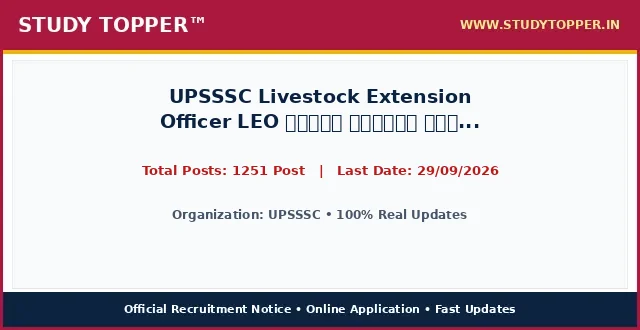
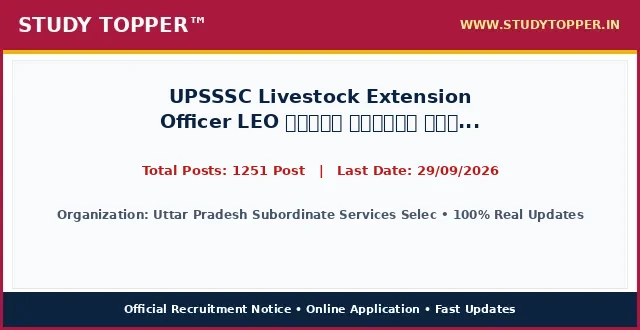
chore(lifecycle): daily auto-sort vacancies and update active dates

Changed region(s): [[0.0938, 0.6364, 0.9375, 0.6667]]

diff --git a/pages/upsssc-livestock-17-exam-2026.html b/pages/upsssc-livestock-17-exam-2026.html
@@ -987,12 +987,12 @@ ul.wp-block-latest-posts a:hover {
 <main class="site-main" id="main">
 <div class="gb-container gb-container-b39c368c">
 <h1 class="gb-headline gb-headline-e52a0102 gb-headline-text" style="font-size: 22px; font-weight: 700; color: #0000cd; text-align: left; margin: 8px 0 4px 0; line-height: 1.3; width: 100%; font-family: '-apple-system, BlinkMacSystemFont, 'Segoe UI', Roboto, 'Helvetica Neue', Arial, sans-serif', Times, serif, Hind, sans-serif;">UPSSSC Livestock Extension Officer LEO पशुधन प्रसार अधिकारी Main Examination 2026 Apply Online for 1251 Post</h1>
-<div class="gb-container gb-container-659bd175"><p style="color: #cd0808; font-weight: 700; font-size: 15px; margin: 2px 0 7px 0; text-align: left; font-family: '-apple-system, BlinkMacSystemFont, 'Segoe UI', Roboto, 'Helvetica Neue', Arial, sans-serif', Times, serif, Hind, sans-serif;">Post Date: August 22, 2026 11:54 AM</p></div>
-<p class="gb-headline gb-headline-550ae316 short_Details gb-headline-text" style="width: 100%; max-width: 100%; font-size: 16.8px; line-height: 1.55; color: #000000; text-align: justify; text-justify: inter-word; margin: 8px 0 14px 0; display: block; font-family: '-apple-system, BlinkMacSystemFont, 'Segoe UI', Roboto, 'Helvetica Neue', Arial, sans-serif', Times, serif, Hind, sans-serif;"><strong style="color: #0000cd;">UPSSSC</strong> has officially published the recruitment notice <strong style="color: #cd0808;">UPSSSC Livestock Extension Officer LEO पशुधन प्रसार अधिकारी Main Examination 2026 Apply Online for 1251 Post</strong> under notification number Official Advt 2026. Online applications are invited for 1251 Post across multiple departments and cadre positions. Interested candidates possessing the requisite educational qualifications and falling between 18 Years to 40 Years can complete their online registration before the application deadline of 29/09/2026. Applicants should read the eligibility criteria, category reservation rules, and exam scheme thoroughly before submitting applications.</p>
+<div class="gb-container gb-container-659bd175"><p style="color: #cd0808; font-weight: 700; font-size: 15px; margin: 2px 0 7px 0; text-align: left; font-family: '-apple-system, BlinkMacSystemFont, 'Segoe UI', Roboto, 'Helvetica Neue', Arial, sans-serif', Times, serif, Hind, sans-serif;">Post Date: August 22, 2026 01:06 PM</p></div>
+<p class="gb-headline gb-headline-550ae316 short_Details gb-headline-text" style="width: 100%; max-width: 100%; font-size: 16.8px; line-height: 1.55; color: #000000; text-align: justify; text-justify: inter-word; margin: 8px 0 14px 0; display: block; font-family: '-apple-system, BlinkMacSystemFont, 'Segoe UI', Roboto, 'Helvetica Neue', Arial, sans-serif', Times, serif, Hind, sans-serif;"><strong style="color: #0000cd;">Uttar Pradesh Subordinate Services Selection Commission (UPSSSC)</strong> has officially published the recruitment notice <strong style="color: #cd0808;">UPSSSC Livestock Extension Officer LEO पशुधन प्रसार अधिकारी Main Examination 2026 Apply Online for 1251 Post</strong> under notification number Official Notification 2026. Online applications are invited for 1251 Post across multiple departments and cadre positions. Interested candidates possessing the requisite educational qualifications and falling between 18 Years to 40 Years can complete their online registration before the application deadline of 29/09/2026. Applicants should read the eligibility criteria, category reservation rules, and exam scheme thoroughly before submitting applications.</p>
 <div class="gb-container gb-container-9849916c"><div class="social-buttons-compact" style="display: flex; justify-content: flex-start; align-items: center; gap: 10px; margin: 10px 0 16px 0; width: 100%;"><a class="social-btn-compact wa" href="https://whatsapp.com/channel/0029Va9xyz" rel="noopener" style="background-color: #00d084; color: #ffffff; padding: 10px 18px; border-radius: 4px; text-decoration: none; font-weight: bold; font-size: 15.5px; display: inline-flex; align-items: center; justify-content: center; height: auto;" target="_blank">WhatsApp</a><a class="social-btn-compact tg" href="https://t.me/studytopperofficial" rel="noopener" style="background-color: #0088cc; color: #ffffff; padding: 10px 18px; border-radius: 4px; text-decoration: none; font-weight: bold; font-size: 15.5px; display: inline-flex; align-items: center; justify-content: center; height: auto;" target="_blank">Telegram</a></div></div>
 <div class="gb-container gb-container-f58e6ca1" style="border: 2px solid #5b032f; border-radius: 4px; overflow: hidden; margin: 15px 0 20px 0; background-color: #ffffff; width: 100%; box-sizing: border-box;">
 <h2 class="gb-headline gb-headline-2ca5a791 gb-headline-text" style="font-size: 16px; font-weight: 700; text-align: center; color: #ef0303; line-height: 1.3; padding: 6px 4px; margin: 0; background: #ffffff; font-family: '-apple-system, BlinkMacSystemFont, 'Segoe UI', Roboto, 'Helvetica Neue', Arial, sans-serif', Times, serif, Hind, sans-serif;">UPSSSC Livestock Extension Officer LEO पशुधन प्रसार अधिकारी Main Examination 2026 Apply Online for 1251 Post &ndash; Latest Details &amp; Updates</h2>
-<h3 class="gb-headline gb-headline-7d5f86e8 gb-headline-text" style="font-size: 16px; font-weight: 600; text-align: center; color: #009703; line-height: 1.25; margin: 0; padding: 2px 4px 6px 4px; background: #ffffff; font-family: '-apple-system, BlinkMacSystemFont, 'Segoe UI', Roboto, 'Helvetica Neue', Arial, sans-serif', Times, serif, Hind, sans-serif;">UPSSSC : Details &amp; Summary</h3>
+<h3 class="gb-headline gb-headline-7d5f86e8 gb-headline-text" style="font-size: 16px; font-weight: 600; text-align: center; color: #009703; line-height: 1.25; margin: 0; padding: 2px 4px 6px 4px; background: #ffffff; font-family: '-apple-system, BlinkMacSystemFont, 'Segoe UI', Roboto, 'Helvetica Neue', Arial, sans-serif', Times, serif, Hind, sans-serif;">Uttar Pradesh Subordinate Services Selection Commission (UPSSSC) : Details &amp; Summary</h3>
 <p class="gb-headline gb-headline-79adf169 gb-headline-text" style="margin: 0 0 6px 0; font-family: '-apple-system, BlinkMacSystemFont, 'Segoe UI', Roboto, 'Helvetica Neue', Arial, sans-serif', Times, serif, Hind, sans-serif; text-align: center; font-size: 18px; font-weight: 700;"><a href="/" style="color: #0000ff; text-decoration: underline;">StudyTopper.in</a></p>
 
 <style id="st-post-boxes-responsive-css">
@@ -1025,7 +1025,7 @@ ul.wp-block-latest-posts a:hover {
     <div style="background-color: #5b032f; color: #ffffff; padding: 8px 10px; font-size: 20px; font-weight: 700; text-align: center; font-family: '-apple-system, BlinkMacSystemFont, 'Segoe UI', Roboto, 'Helvetica Neue', Arial, sans-serif', Times, serif, Hind, sans-serif;">Important Dates</div>
     <div style="padding: 12px 14px; background-color: #ffffff;">
       <ul style="padding-left: 20px; margin: 0; list-style-type: disc; text-align: left; font-size: 14pt; line-height: 1.6; font-family: '-apple-system, BlinkMacSystemFont, 'Segoe UI', Roboto, 'Helvetica Neue', Arial, sans-serif', Times, serif, Hind, sans-serif;">
-        <li><span style="font-size: 14pt;">Application Begin : <strong>09/09/2026</strong></span></li><li><span style="font-size: 14pt;">Last Date for Apply Online : <span style="color: #ff0000;"><strong>29/09/2026</strong></span></span></li><li><span style="font-size: 14pt;">Pay Exam Fee Last Date : <span style="color: #ff0000;"><strong>29/09/2026</strong></span></span></li><li><span style="font-size: 14pt;">Form Correction Last Date : <span style="color: #ff0000;"><strong>06/10/2026</strong></span></span></li><li><span style="font-size: 14pt;">UPSSSC Livestock Extension Officer Main Exam Date : <strong>As per Schedule</strong></span></li><li><span style="font-size: 14pt;">Admit Card Available : <strong>Before Exam</strong></span></li><li><span style="font-size: 14pt;">Candidate Read the Notification Before Apply the Recruitment Application Form in UPSSSC Livestock Extension Officer LEO Main Examination Advt. No.17 : <strong>Exam/2026 Recruitment 2026.</strong></span></li>
+        <li><span style="font-size: 14pt;">Application Begin : <strong>09/09/2026</strong></span></li><li><span style="font-size: 14pt;">Last Date for Apply Online : <span style="color: #ff0000;"><strong>29/09/2026</strong></span></span></li><li><span style="font-size: 14pt;">Pay Exam Fee Last Date : <span style="color: #ff0000;"><strong>29/09/2026</strong></span></span></li><li><span style="font-size: 14pt;">Form Correction Last Date : <span style="color: #ff0000;"><strong>06/10/2026</strong></span></span></li><li><span style="font-size: 14pt;">Exam City Available : <strong>Before Exam</strong></span></li><li><span style="font-size: 14pt;">Admit Card Available : <strong>Before Exam</strong></span></li>
       </ul>
     </div>
   </div>
@@ -1034,7 +1034,7 @@ ul.wp-block-latest-posts a:hover {
     <div style="background-color: #5b032f; color: #ffffff; padding: 8px 10px; font-size: 20px; font-weight: 700; text-align: center; font-family: '-apple-system, BlinkMacSystemFont, 'Segoe UI', Roboto, 'Helvetica Neue', Arial, sans-serif', Times, serif, Hind, sans-serif;">Application Fee</div>
     <div style="padding: 12px 14px; background-color: #ffffff;">
       <ul style="padding-left: 20px; margin: 0; list-style-type: disc; text-align: left; font-size: 14pt; line-height: 1.6; font-family: '-apple-system, BlinkMacSystemFont, 'Segoe UI', Roboto, 'Helvetica Neue', Arial, sans-serif', Times, serif, Hind, sans-serif;">
-        <li><span style="font-size: 14pt;">General (UR) / OBC / EWS : <strong>25/-</strong></span></li><li><span style="font-size: 14pt;">SC / ST : <strong>25/-</strong></span></li><li><span style="font-size: 14pt;">PH (Divyang) : <strong>25/-</strong></span></li>
+        <li><span style="font-size: 14pt;">General (UR) / OBC / EWS : <strong>25/-</strong></span></li><li><span style="font-size: 14pt;">SC / ST : <strong>25/-</strong></span></li><li><span style="font-size: 14pt;">PH (Divyang) : <strong>25/-</strong></span></li><li><span style="font-size: 14pt;">Payment Mode : <strong>Pay the Examination Fee Through UPI, Debit Card, Credit Card and Net Banking Mode Only.</strong></span></li>
       </ul>
       <div style="margin-top: 10px; font-size: 14pt; line-height: 1.5; color: #000000; border-top: 1px dashed #ccc; padding-top: 8px; font-family: '-apple-system, BlinkMacSystemFont, 'Segoe UI', Roboto, 'Helvetica Neue', Arial, sans-serif', Times, serif, Hind, sans-serif;">
         <strong>Mode of Payment / Access:</strong> Online via Net Banking, Debit Card, Credit Card, UPI or Free Candidate Portal.
@@ -1047,10 +1047,10 @@ ul.wp-block-latest-posts a:hover {
 <div class="st-grid-row" style="display: flex; flex-wrap: wrap; width: 100%; border-top: 2px solid #5b032f; margin: 0; padding: 0; box-sizing: border-box;">
   <!-- Left Col: Age Limits -->
   <div class="st-col-half st-col-border-right" style="box-sizing: border-box; vertical-align: top;">
-    <div style="background-color: #046132; color: #ffffff; padding: 8px 10px; font-size: 17px; font-weight: 700; text-align: center; font-family: '-apple-system, BlinkMacSystemFont, 'Segoe UI', Roboto, 'Helvetica Neue', Arial, sans-serif', Times, serif, Hind, sans-serif;">UPSSSC : Age Limits As On 01 August 2026</div>
+    <div style="background-color: #046132; color: #ffffff; padding: 8px 10px; font-size: 17px; font-weight: 700; text-align: center; font-family: '-apple-system, BlinkMacSystemFont, 'Segoe UI', Roboto, 'Helvetica Neue', Arial, sans-serif', Times, serif, Hind, sans-serif;">Uttar Pradesh Subordinate Services Selection Commission (UPSSSC) : Age Limits As On 01/07/2026</div>
     <div style="padding: 12px 14px; background-color: #ffffff;">
       <ul style="padding-left: 20px; margin: 0; list-style-type: disc; text-align: left; font-size: 14pt; line-height: 1.6; font-family: '-apple-system, BlinkMacSystemFont, 'Segoe UI', Roboto, 'Helvetica Neue', Arial, sans-serif', Times, serif, Hind, sans-serif;">
-        <li><span style="font-size: 14pt;">Minimum Age : <strong>21 Years</strong></span></li><li><span style="font-size: 14pt;">Maximum Age : <strong>40 Years</strong></span></li><li><span style="font-size: 14pt;">Age Relaxation Extra as per UPSSSC पशुधन प्रसार अधिकारी LEO Main Recruitment Rules Advt. No. 17 : <strong>Exam/2026.</strong></span></li>
+        <li><span style="font-size: 14pt;">Minimum Age : <strong>21 Years</strong></span></li><li><span style="font-size: 14pt;">Maximum Age : <strong>40 Years</strong></span></li><li><span style="font-size: 14pt;">Age Relaxation : <strong>Age Relaxation Extra as per UPSSSC पशुधन प्रसार अधिकारी LEO Main Recruitment Rules Advt. No. 17-Exam/2026.</strong></span></li>
       </ul>
     </div>
   </div>
@@ -1070,7 +1070,19 @@ ul.wp-block-latest-posts a:hover {
 <div class="gb-container gb-container-ec1f6e4c">
 <h2 class="gb-headline gb-headline-c7683bda gb-headline-text" style="font-size: 24px; font-weight: 800; text-align: center; color: #ef0303; line-height: 1.35; margin: 20px 0 12px 0; padding: 6px 4px; font-family: '-apple-system, BlinkMacSystemFont, 'Segoe UI', Roboto, 'Helvetica Neue', Arial, sans-serif', Times, serif, Hind, sans-serif;">UPSSSC Livestock Extension Officer LEO पशुधन प्रसार अधिकारी Main Examination 2026 Apply Online for 1251 Post : Key Overview &amp; Matrix</h2>
 <div class="gb-headline gb-headline-60ccea19 gb-headline-text">
-
+<table style="border-collapse: collapse; width: 100%; height: 150px;">
+<tbody>
+<tr style="height: 25px;">
+<td colspan="2" style="width: 50%; text-align: center; height: 25px;"><span style="background-color: #000080; color: #ffffff; font-size: 14pt;"><strong> Uttar Pradesh Subordinate Services Selection Commission (UPSSSC) : Category Wise Vacancy Details </strong></span></td>
+</tr>
+<tr style="height: 25px;">
+<td style="width: 50%; height: 25px; text-align: center;"><span style="font-size: 14pt;"><strong>Category / Particulars</strong></span></td>
+<td style="width: 50%; height: 25px; text-align: center;"><span style="font-size: 14pt;"><strong>Count / Status</strong></span></td>
+</tr>
+<tr><td style="text-align: center;">Total Post</td><td style="text-align: center; font-weight: bold; color: #ff0000;">1248</td></tr><tr><td style="text-align: center;">UPSSSC Livestock Extension Officer LEO Main Examination Eligibility</td><td style="text-align: center; font-weight: normal; color: inherit;">UPSSSC PET 2025 Exam Passed 10+2 Intermediate Biology Subject. 2 Year Diploma in Livestock Extension (पशुधन प्रसार डिप्लोमा) More Eligibility Read the Notification.</td></tr><tr><td style="text-align: center;">UR</td><td style="text-align: center; font-weight: normal; color: inherit;">0</td></tr><tr><td style="text-align: center;">EWS</td><td style="text-align: center; font-weight: normal; color: inherit;">0</td></tr><tr><td style="text-align: center;">OBC</td><td style="text-align: center; font-weight: normal; color: inherit;">03</td></tr><tr><td style="text-align: center;">SC</td><td style="text-align: center; font-weight: normal; color: inherit;">0</td></tr><tr><td style="text-align: center;">ST</td><td style="text-align: center; font-weight: normal; color: inherit;">0</td></tr><tr><td style="text-align: center;">Total</td><td style="text-align: center; font-weight: bold; color: #ff0000;">03</td></tr>
+</tbody>
+</table>
+<p>&nbsp;</p>
 <table style="border-collapse: collapse; width: 100%;">
 <tbody>
 <tr>
@@ -1079,9 +1091,13 @@ ul.wp-block-latest-posts a:hover {
 <th style="background-color: #f53c00; color: #ffffff; padding: 6px 10px; text-align: center; border: 1px solid #d35400; font-size: 15px; font-weight: 700; font-family: '-apple-system, BlinkMacSystemFont, 'Segoe UI', Roboto, 'Helvetica Neue', Arial, sans-serif', Times, serif, Hind, sans-serif;">Eligibility Criteria</th>
 </tr>
 <tr>
-<td style="padding: 8px; border: 1px solid #ddd; font-weight: bold;">UPSSSC Recruitment</td>
-<td style="padding: 8px; border: 1px solid #ddd; text-align: center; font-weight: bold;">1251 Post</td>
-<td style="padding: 8px; border: 1px solid #ddd;">Please refer to the official notification linked below for detailed educational qualifications.</td>
+<td style="padding: 8px; border: 1px solid #ddd; font-weight: bold;">Livestock Extension Officer</td>
+<td style="padding: 8px; border: 1px solid #ddd; text-align: center; font-weight: bold;">1248</td>
+<td style="padding: 8px; border: 1px solid #ddd;">UPSSSC PET 2025 Exam Passed 10+2 Intermediate Biology Subject. 2 Year Diploma in Livestock Extension (पशुधन प्रसार डिप्लोमा) More Eligibility Read the Notification.</td>
+</tr><tr>
+<td style="padding: 8px; border: 1px solid #ddd; font-weight: bold;">Livestock Extension Officer (Special)</td>
+<td style="padding: 8px; border: 1px solid #ddd; text-align: center; font-weight: bold;">03</td>
+<td style="padding: 8px; border: 1px solid #ddd;"></td>
 </tr>
 </tbody>
 </table>
@@ -1093,10 +1109,10 @@ ul.wp-block-latest-posts a:hover {
 <table style="border-collapse: collapse; width: 100%;">
 <tbody>
 <tr>
-<td style="width: 100%; text-align: center;"><span style="background-color: #000080; color: #ffffff; font-size: 14pt; font-weight: bold; display: block; padding: 6px;"> How to Fill UPSSSC Online Application Form </span></td>
+<td style="width: 100%; text-align: center;"><span style="background-color: #000080; color: #ffffff; font-size: 14pt; font-weight: bold; display: block; padding: 6px;"> How to Fill Uttar Pradesh Subordinate Services Selection Commission (UPSSSC) Online Application Form </span></td>
 </tr>
 <tr>
-<td style="width: 100%;"><ol style="margin:0; padding-left:18px; text-align: left !important; list-style-position: outside !important"><li style="margin-bottom:6px; text-align: left !important;">Read the official recruitment notification carefully before applying.</li><li style="margin-bottom:6px; text-align: left !important;">Keep all basic documents ready: ID Proof, Address Details, Basic Details.</li><li style="margin-bottom:6px; text-align: left !important;">Ready your scanned documents like Photo, Signature, ID Proof, etc.</li><li style="margin-bottom:6px; text-align: left !important;">Click on the 'Apply Online' link given in the Important Links section below.</li><li style="margin-bottom:6px; text-align: left !important;">Fill out all the columns in the application form accurately.</li><li style="margin-bottom:6px; text-align: left !important;">Pay the required application fee if applicable.</li><li style="margin-bottom:6px; text-align: left !important;">Take a printout of the final submitted application form.</li><li style="margin-bottom:6px; text-align: left !important;">Resize candidate photograph and signature accurately using the <a href="https://indtool.in" rel="noopener" target="_blank"><strong>StudyTopper Tools</strong></a> image resizer at indtool.in.</li></ol></td>
+<td style="width: 100%;"><ol style="margin:0; padding-left:18px; text-align: left !important; list-style-position: outside !important"><li style="margin-bottom:6px; text-align: left !important;">Uttar Pradesh Subordinate Service Selection Commission (UPSSSC) Main Recruitment for Various Post Candidate Can Apply Between</li><li style="margin-bottom:6px; text-align: left !important;">09/09/2026 to 29/09/2026</li><li style="margin-bottom:6px; text-align: left !important;">Candidate Read the Notification Before Apply the Recruitment Application Form in UPSSSC Livestock Extension Officer LEO Main Examination Advt. No.17-Exam/2026 Recruitment 2026.</li><li style="margin-bottom:6px; text-align: left !important;">Kindly Check and Collect the All Document – Eligibility, ID Proof, Address Details, Basic Details.</li><li style="margin-bottom:6px; text-align: left !important;">Kindly Ready Scan Document Related to Recruitment Form – Photo, Sign, ID Proof, Etc.</li><li style="margin-bottom:6px; text-align: left !important;">Before Submit the Application Form Must Check the Preview and All Column Carefully.</li><li style="margin-bottom:6px; text-align: left !important;">If Candidate Required to Paying the Application Fee Must Submit. If You have Not the Required Application Fees Your Form is Not Completed.</li><li style="margin-bottom:6px; text-align: left !important;">Take A Print Out of Final Submitted Form.</li><li style="margin-bottom:6px; text-align: left !important;">Resize candidate photograph and signature accurately using the <a href="https://indtool.in" rel="noopener" target="_blank"><strong>StudyTopper Tools</strong></a> image resizer at indtool.in.</li></ol></td>
 </tr>
 </tbody>
 </table>
@@ -1104,7 +1120,7 @@ ul.wp-block-latest-posts a:hover {
 <table style="border-collapse: collapse; width: 100%;">
 <tbody>
 <tr>
-<td style="width: 100%; text-align: center;"><span style="background-color: #000080; color: #ffffff; font-size: 14pt;"><strong><span style="color: #ffffff;"> UPSSSC Recruitment 2026 : Mode Of Selection </span></strong></span></td>
+<td style="width: 100%; text-align: center;"><span style="background-color: #000080; color: #ffffff; font-size: 14pt;"><strong><span style="color: #ffffff;"> Uttar Pradesh Subordinate Services Selection Commission (UPSSSC) Recruitment 2026 : Mode Of Selection </span></strong></span></td>
 </tr>
 <tr>
 <td style="width: 100%;">
@@ -1144,42 +1160,74 @@ ul.wp-block-latest-posts a:hover {
 
 <tr style="border-bottom: 1px solid #000000; background-color: #fff37a;">
 <td style="width: 50%; padding: 14px 16px; border-right: 1px solid #000000; text-align: center;">
-<span style="font-size: 19px; font-weight: 800; color: #000000; font-family: '-apple-system, BlinkMacSystemFont, 'Segoe UI', Roboto, 'Helvetica Neue', Arial, sans-serif', Times, serif, Hind, sans-serif;">Apply Online Link</span>
+<span style="font-size: 19px; font-weight: 800; color: #000000; font-family: '-apple-system, BlinkMacSystemFont, 'Segoe UI', Roboto, 'Helvetica Neue', Arial, sans-serif', Times, serif, Hind, sans-serif;">Sarkari Result Android App</span>
 </td>
 <td style="width: 50%; padding: 14px 16px; text-align: center;">
-<span style="font-size: 20px; font-weight: 800; font-family: '-apple-system, BlinkMacSystemFont, 'Segoe UI', Roboto, 'Helvetica Neue', Arial, sans-serif', Times, serif, Hind, sans-serif;"><a href="https://upsssc.gov.in/" aria-label="Click Here for Apply Online Link - UPSSSC Livestock Extension Officer LEO पशुधन प्रसार अधिकारी Main Examination 2026 Apply Online for 1251 Post" rel="noopener noreferrer" style="color: #0000ef; font-weight: 800; text-decoration: none;" target="_blank">Click Here</a></span>
+<span style="font-size: 20px; font-weight: 800; font-family: '-apple-system, BlinkMacSystemFont, 'Segoe UI', Roboto, 'Helvetica Neue', Arial, sans-serif', Times, serif, Hind, sans-serif;"><a href="https://itunes.apple.com/us/app/sarkari-result/id1051363935?ls=1&mt=8" aria-label="Click Here for Sarkari Result Android App - UPSSSC Livestock Extension Officer LEO पशुधन प्रसार अधिकारी Main Examination 2026 Apply Online for 1251 Post" rel="noopener noreferrer" style="color: #0000ef; font-weight: 800; text-decoration: none;" target="_blank">Click Here</a></span>
 </td>
 </tr>
 <tr style="border-bottom: 1px solid #000000; background-color: #fff37a;">
 <td style="width: 50%; padding: 14px 16px; border-right: 1px solid #000000; text-align: center;">
-<span style="font-size: 19px; font-weight: 800; color: #000000; font-family: '-apple-system, BlinkMacSystemFont, 'Segoe UI', Roboto, 'Helvetica Neue', Arial, sans-serif', Times, serif, Hind, sans-serif;">Check Official Notification</span>
+<span style="font-size: 19px; font-weight: 800; color: #000000; font-family: '-apple-system, BlinkMacSystemFont, 'Segoe UI', Roboto, 'Helvetica Neue', Arial, sans-serif', Times, serif, Hind, sans-serif;">Apply Online</span>
 </td>
 <td style="width: 50%; padding: 14px 16px; text-align: center;">
-<span style="font-size: 20px; font-weight: 800; font-family: '-apple-system, BlinkMacSystemFont, 'Segoe UI', Roboto, 'Helvetica Neue', Arial, sans-serif', Times, serif, Hind, sans-serif;"><a href="https://upsssc.gov.in/" aria-label="Click Here for Check Official Notification - UPSSSC Livestock Extension Officer LEO पशुधन प्रसार अधिकारी Main Examination 2026 Apply Online for 1251 Post" rel="noopener noreferrer" style="color: #0000ef; font-weight: 800; text-decoration: none;" target="_blank">Click Here</a></span>
+<span style="font-size: 20px; font-weight: 800; font-family: '-apple-system, BlinkMacSystemFont, 'Segoe UI', Roboto, 'Helvetica Neue', Arial, sans-serif', Times, serif, Hind, sans-serif;"><a href="https://upsssc.gov.in/" aria-label="Click Here for Apply Online - UPSSSC Livestock Extension Officer LEO पशुधन प्रसार अधिकारी Main Examination 2026 Apply Online for 1251 Post" rel="noopener noreferrer" style="color: #0000ef; font-weight: 800; text-decoration: none;" target="_blank">Click Here</a></span>
 </td>
 </tr>
 <tr style="border-bottom: 1px solid #000000; background-color: #fff37a;">
 <td style="width: 50%; padding: 14px 16px; border-right: 1px solid #000000; text-align: center;">
-<span style="font-size: 19px; font-weight: 800; color: #000000; font-family: '-apple-system, BlinkMacSystemFont, 'Segoe UI', Roboto, 'Helvetica Neue', Arial, sans-serif', Times, serif, Hind, sans-serif;">Photo / Sign Resizer Tool</span>
+<span style="font-size: 19px; font-weight: 800; color: #000000; font-family: '-apple-system, BlinkMacSystemFont, 'Segoe UI', Roboto, 'Helvetica Neue', Arial, sans-serif', Times, serif, Hind, sans-serif;">Download Syllabus</span>
 </td>
 <td style="width: 50%; padding: 14px 16px; text-align: center;">
-<span style="font-size: 20px; font-weight: 800; font-family: '-apple-system, BlinkMacSystemFont, 'Segoe UI', Roboto, 'Helvetica Neue', Arial, sans-serif', Times, serif, Hind, sans-serif;"><a href="https://indtool.in" aria-label="Click Here for Photo / Sign Resizer Tool - UPSSSC Livestock Extension Officer LEO पशुधन प्रसार अधिकारी Main Examination 2026 Apply Online for 1251 Post" rel="noopener noreferrer" style="color: #0000ef; font-weight: 800; text-decoration: none;" target="_blank">Click Here</a></span>
+<span style="font-size: 20px; font-weight: 800; font-family: '-apple-system, BlinkMacSystemFont, 'Segoe UI', Roboto, 'Helvetica Neue', Arial, sans-serif', Times, serif, Hind, sans-serif;"><a href="https://www.sarkariresult.com/wp-content/uploads/2026/08/Syllabus_UPSSSC_Livestock_Extension_officer_SarkariResult.Com_UPSSSC_17Exam_2026-1-compressed.pdf" aria-label="Click Here for Download Syllabus - UPSSSC Livestock Extension Officer LEO पशुधन प्रसार अधिकारी Main Examination 2026 Apply Online for 1251 Post" rel="noopener noreferrer" style="color: #0000ef; font-weight: 800; text-decoration: none;" target="_blank">Click Here</a></span>
 </td>
 </tr>
 <tr style="border-bottom: 1px solid #000000; background-color: #fff37a;">
+<td style="width: 50%; padding: 14px 16px; border-right: 1px solid #000000; text-align: center;">
+<span style="font-size: 19px; font-weight: 800; color: #000000; font-family: '-apple-system, BlinkMacSystemFont, 'Segoe UI', Roboto, 'Helvetica Neue', Arial, sans-serif', Times, serif, Hind, sans-serif;">Download Notification</span>
+</td>
+<td style="width: 50%; padding: 14px 16px; text-align: center;">
+<span style="font-size: 20px; font-weight: 800; font-family: '-apple-system, BlinkMacSystemFont, 'Segoe UI', Roboto, 'Helvetica Neue', Arial, sans-serif', Times, serif, Hind, sans-serif;"><a href="https://doc.sarkariresults.org.in/SarkariResult.Com_UPSSSC_17Exam_2026.pdf" aria-label="Click Here for Download Notification - UPSSSC Livestock Extension Officer LEO पशुधन प्रसार अधिकारी Main Examination 2026 Apply Online for 1251 Post" rel="noopener noreferrer" style="color: #0000ef; font-weight: 800; text-decoration: none;" target="_blank">Click Here</a></span>
+</td>
+</tr>
+<tr style="border-bottom: 1px solid #000000; background-color: #fff37a;">
+<td style="width: 50%; padding: 14px 16px; border-right: 1px solid #000000; text-align: center;">
+<span style="font-size: 19px; font-weight: 800; color: #000000; font-family: '-apple-system, BlinkMacSystemFont, 'Segoe UI', Roboto, 'Helvetica Neue', Arial, sans-serif', Times, serif, Hind, sans-serif;">Signature Resizer, PDF Compress, Age Calculator and More Tools</span>
+</td>
+<td style="width: 50%; padding: 14px 16px; text-align: center;">
+<span style="font-size: 20px; font-weight: 800; font-family: '-apple-system, BlinkMacSystemFont, 'Segoe UI', Roboto, 'Helvetica Neue', Arial, sans-serif', Times, serif, Hind, sans-serif;"><a href="https://sarkariresult.tools/" aria-label="Click Here for Signature Resizer, PDF Compress, Age Calculator and More Tools - UPSSSC Livestock Extension Officer LEO पशुधन प्रसार अधिकारी Main Examination 2026 Apply Online for 1251 Post" rel="noopener noreferrer" style="color: #0000ef; font-weight: 800; text-decoration: none;" target="_blank">Click Here</a></span>
+</td>
+</tr>
+<tr style="border-bottom: 1px solid #000000; background-color: #fff37a;">
+<td style="width: 50%; padding: 14px 16px; border-right: 1px solid #000000; text-align: center;">
+<span style="font-size: 19px; font-weight: 800; color: #000000; font-family: '-apple-system, BlinkMacSystemFont, 'Segoe UI', Roboto, 'Helvetica Neue', Arial, sans-serif', Times, serif, Hind, sans-serif;">Join Sarkari Result Channel</span>
+</td>
+<td style="width: 50%; padding: 14px 16px; text-align: center;">
+<span style="font-size: 20px; font-weight: 800; font-family: '-apple-system, BlinkMacSystemFont, 'Segoe UI', Roboto, 'Helvetica Neue', Arial, sans-serif', Times, serif, Hind, sans-serif;"><a href="https://t.me/SarkariResult2012" aria-label="Click Here for Join Sarkari Result Channel - UPSSSC Livestock Extension Officer LEO पशुधन प्रसार अधिकारी Main Examination 2026 Apply Online for 1251 Post" rel="noopener noreferrer" style="color: #0000ef; font-weight: 800; text-decoration: none;" target="_blank">Click Here</a></span>
+</td>
+</tr>
+<tr style="border-bottom: 1px solid #000000; background-color: #fff37a;">
+<td style="width: 50%; padding: 14px 16px; border-right: 1px solid #000000; text-align: center;">
+<span style="font-size: 19px; font-weight: 800; color: #000000; font-family: '-apple-system, BlinkMacSystemFont, 'Segoe UI', Roboto, 'Helvetica Neue', Arial, sans-serif', Times, serif, Hind, sans-serif;">Join Sarkari Result Channel</span>
+</td>
+<td style="width: 50%; padding: 14px 16px; text-align: center;">
+<span style="font-size: 20px; font-weight: 800; font-family: '-apple-system, BlinkMacSystemFont, 'Segoe UI', Roboto, 'Helvetica Neue', Arial, sans-serif', Times, serif, Hind, sans-serif;"><a href="https://whatsapp.com/channel/0029Va5IElwBlHpVBd6i5a18" aria-label="Click Here for Join Sarkari Result Channel - UPSSSC Livestock Extension Officer LEO पशुधन प्रसार अधिकारी Main Examination 2026 Apply Online for 1251 Post" rel="noopener noreferrer" style="color: #0000ef; font-weight: 800; text-decoration: none;" target="_blank">Click Here</a></span>
+</td>
+</tr>
+<tr style="border-bottom: 1px solid #000000; background-color: #fff37a;">
+<td style="width: 50%; padding: 14px 16px; border-right: 1px solid #000000; text-align: center;">
+<span style="font-size: 19px; font-weight: 800; color: #000000; font-family: '-apple-system, BlinkMacSystemFont, 'Segoe UI', Roboto, 'Helvetica Neue', Arial, sans-serif', Times, serif, Hind, sans-serif;">Official Website</span>
+</td>
+<td style="width: 50%; padding: 14px 16px; text-align: center;">
+<span style="font-size: 20px; font-weight: 800; font-family: '-apple-system, BlinkMacSystemFont, 'Segoe UI', Roboto, 'Helvetica Neue', Arial, sans-serif', Times, serif, Hind, sans-serif;"><a href="https://upsssc.gov.in/" aria-label="Click Here for Official Website - UPSSSC Livestock Extension Officer LEO पशुधन प्रसार अधिकारी Main Examination 2026 Apply Online for 1251 Post" rel="noopener noreferrer" style="color: #0000ef; font-weight: 800; text-decoration: none;" target="_blank">Click Here</a></span>
+</td>
+</tr>
+<tr style=" background-color: #fff37a;">
 <td style="width: 50%; padding: 14px 16px; border-right: 1px solid #000000; text-align: center;">
 <span style="font-size: 19px; font-weight: 800; color: #000000; font-family: '-apple-system, BlinkMacSystemFont, 'Segoe UI', Roboto, 'Helvetica Neue', Arial, sans-serif', Times, serif, Hind, sans-serif;">Check Sarkari Result</span>
 </td>
 <td style="width: 50%; padding: 14px 16px; text-align: center;">
 <span style="font-size: 20px; font-weight: 800; font-family: '-apple-system, BlinkMacSystemFont, 'Segoe UI', Roboto, 'Helvetica Neue', Arial, sans-serif', Times, serif, Hind, sans-serif;"><a href="/" aria-label="Click Here for Check Sarkari Result - UPSSSC Livestock Extension Officer LEO पशुधन प्रसार अधिकारी Main Examination 2026 Apply Online for 1251 Post" rel="noopener noreferrer" style="color: #0000ef; font-weight: 800; text-decoration: none;" >Click Here</a></span>
-</td>
-</tr>
-<tr style=" background-color: #fff37a;">
-<td style="width: 50%; padding: 14px 16px; border-right: 1px solid #000000; text-align: center;">
-<span style="font-size: 19px; font-weight: 800; color: #000000; font-family: '-apple-system, BlinkMacSystemFont, 'Segoe UI', Roboto, 'Helvetica Neue', Arial, sans-serif', Times, serif, Hind, sans-serif;">UPSSSC Website</span>
-</td>
-<td style="width: 50%; padding: 14px 16px; text-align: center;">
-<span style="font-size: 20px; font-weight: 800; font-family: '-apple-system, BlinkMacSystemFont, 'Segoe UI', Roboto, 'Helvetica Neue', Arial, sans-serif', Times, serif, Hind, sans-serif;"><a href="https://upsssc.gov.in/" aria-label="Click Here for UPSSSC Website - UPSSSC Livestock Extension Officer LEO पशुधन प्रसार अधिकारी Main Examination 2026 Apply Online for 1251 Post" rel="noopener noreferrer" style="color: #0000ef; font-weight: 800; text-decoration: none;" target="_blank">Click Here</a></span>
 </td>
 </tr>
 </tbody>
@@ -1193,7 +1241,7 @@ ul.wp-block-latest-posts a:hover {
   <div style="font-size: 14.5px; line-height: 1.65; color: #222222;">
     <p style="margin: 0 0 4px 0;"><strong style="color: #000080;">Q1. What is the last date to apply for UPSSSC Livestock Extension Officer LEO पशुधन प्रसार अधिकारी Main Examination 2026 Apply Online for 1251 Post?</strong></p>
 <p style="margin: 0 0 16px 0; color: #333333; line-height: 1.6;">Ans. The last date for online submission of application is 29/09/2026.</p><p style="margin: 0 0 4px 0;"><strong style="color: #000080;">Q2. What is the age limit for UPSSSC Livestock Extension Officer LEO पशुधन प्रसार अधिकारी Main Examination 2026 Apply Online for 1251 Post?</strong></p>
-<p style="margin: 0 0 16px 0; color: #333333; line-height: 1.6;">Ans. Candidate age should generally be between 18 Years and 40 Years as on 01 August 2026. Age relaxation is applicable per rules.</p><p style="margin: 0 0 4px 0;"><strong style="color: #000080;">Q3. What is the application fee for UPSSSC Livestock Extension Officer LEO पशुधन प्रसार अधिकारी Main Examination 2026 Apply Online for 1251 Post?</strong></p>
+<p style="margin: 0 0 16px 0; color: #333333; line-height: 1.6;">Ans. Candidate age should generally be between 18 Years and 40 Years as on 01/07/2026. Age relaxation is applicable per rules.</p><p style="margin: 0 0 4px 0;"><strong style="color: #000080;">Q3. What is the application fee for UPSSSC Livestock Extension Officer LEO पशुधन प्रसार अधिकारी Main Examination 2026 Apply Online for 1251 Post?</strong></p>
 <p style="margin: 0 0 16px 0; color: #333333; line-height: 1.6;">Ans. Application fee varies by category (e.g., General/OBC: Rs. 100/-, SC/ST/PwD: Exempted).</p><p style="margin: 0 0 4px 0;"><strong style="color: #000080;">Q4. How many total posts are available in UPSSSC Livestock Extension Officer LEO पशुधन प्रसार अधिकारी Main Examination 2026 Apply Online for 1251 Post?</strong></p>
 <p style="margin: 0 0 16px 0; color: #333333; line-height: 1.6;">Ans. A total of 1251 Post have been officially announced for this recruitment drive.</p><p style="margin: 0 0 4px 0;"><strong style="color: #000080;">Q5. How can I apply online for UPSSSC Livestock Extension Officer LEO पशुधन प्रसार अधिकारी Main Examination 2026 Apply Online for 1251 Post?</strong></p>
 <p style="margin: 0 0 0 0; color: #333333; line-height: 1.6;">Ans. Eligible candidates can click the 'Apply Online' link in the Important Links table, register, fill details, resize photo/signature via indtool.in, and submit before 29/09/2026.</p>
